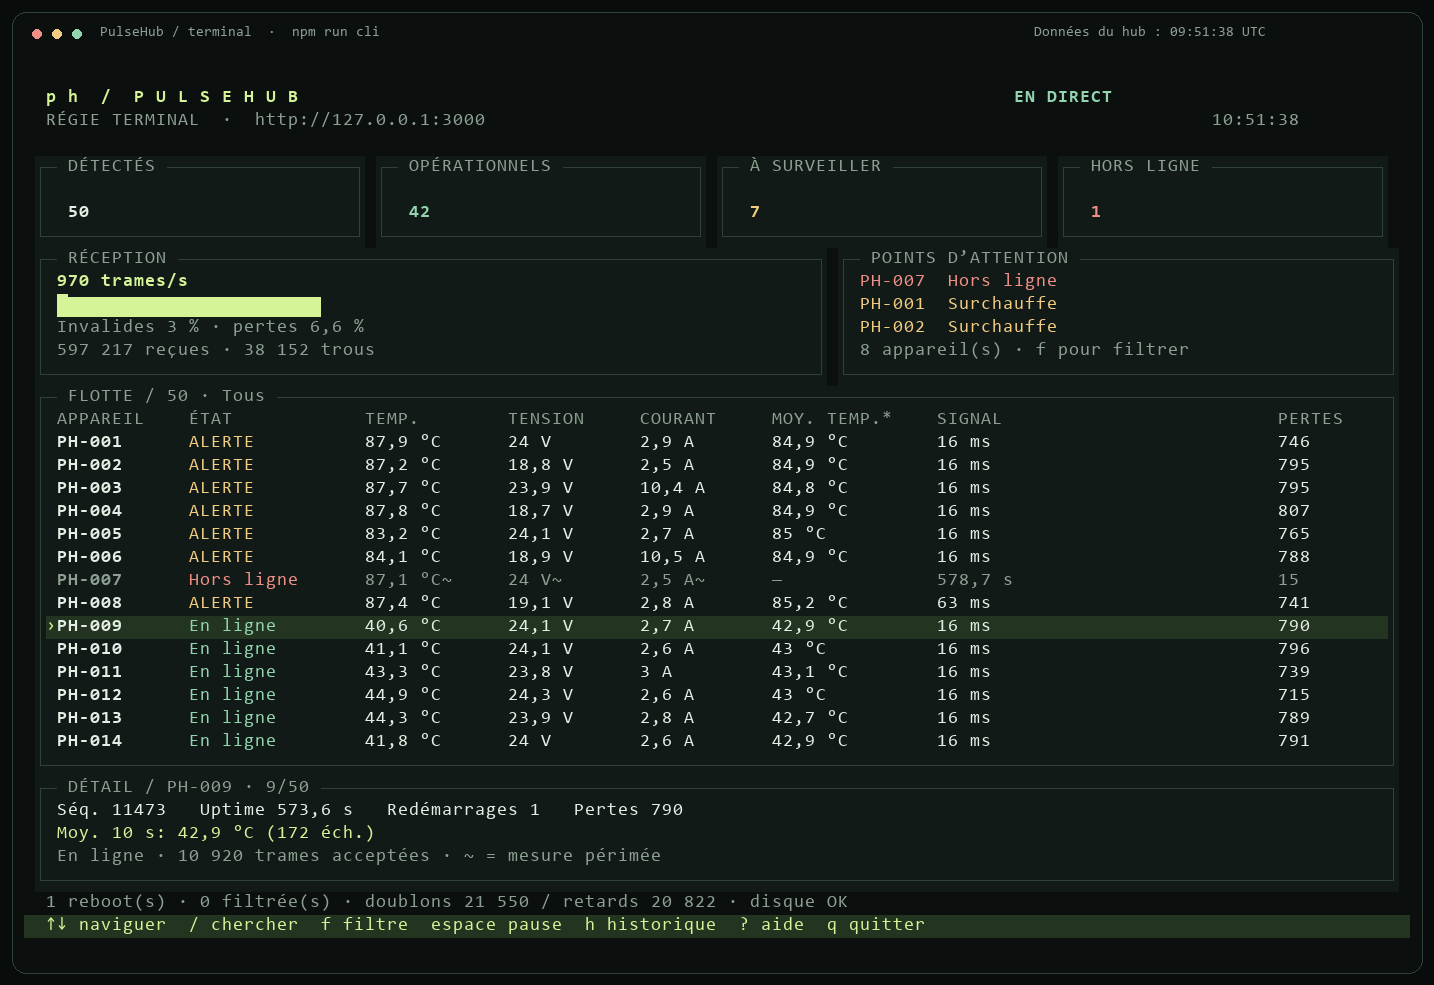
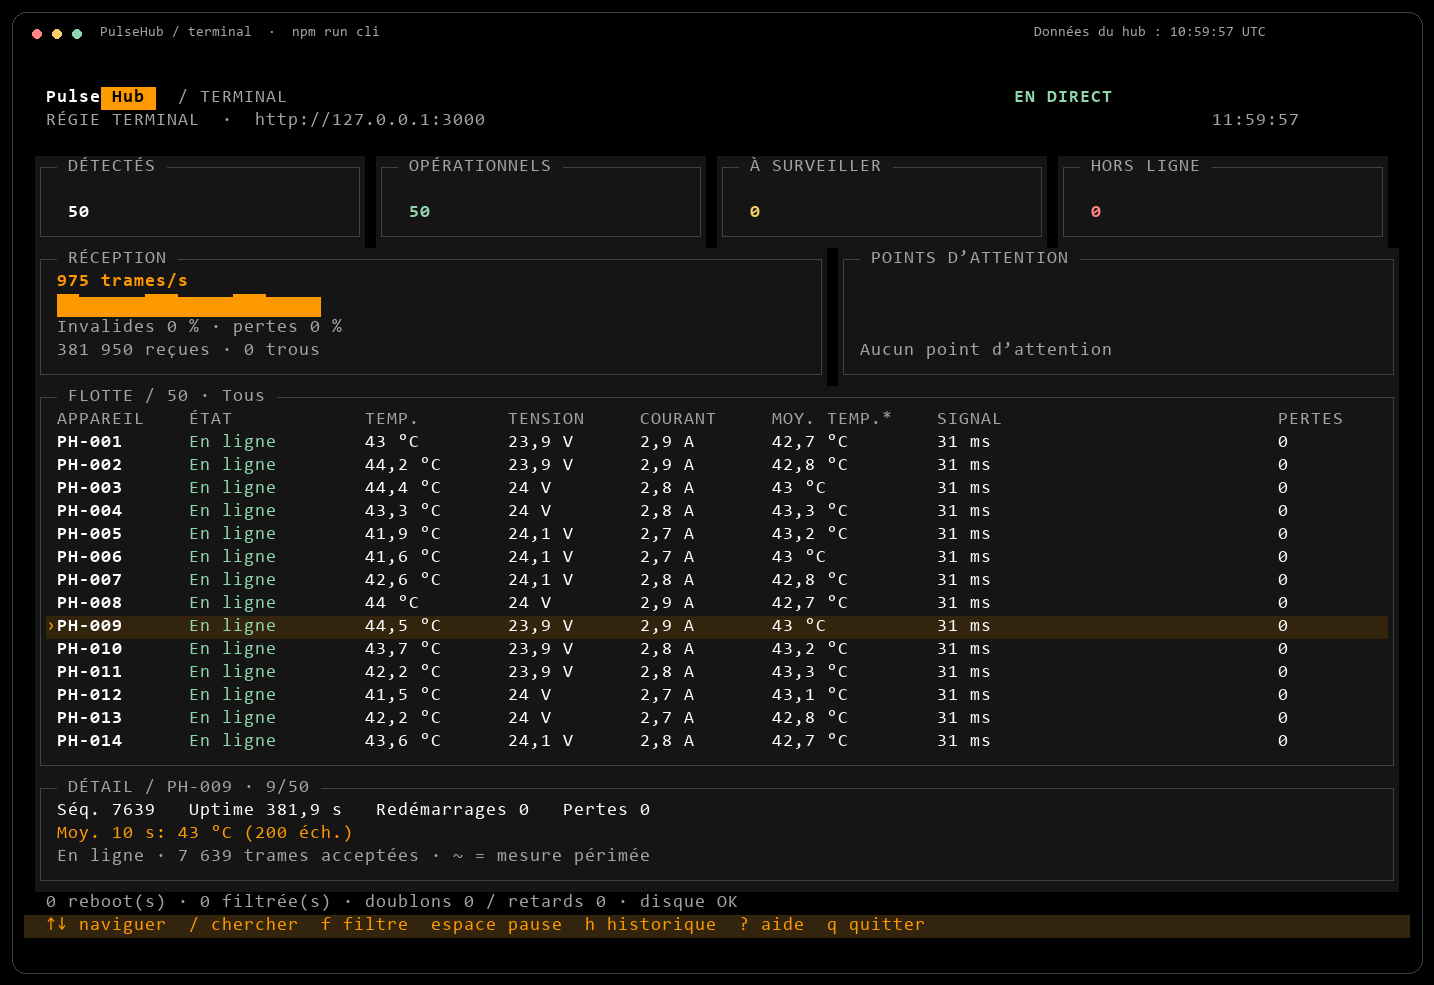
feat(cli): align terminal with black-orange web theme

diff --git a/src/terminal/dashboard.ts b/src/terminal/dashboard.ts
@@ -33,15 +33,17 @@ const metric = (id: number, value: number | null) => value === null ? '—' : nu
 const pad = (value: string, width: number) => value.slice(0, width).padEnd(width);
 export function renderDashboard(state: DashboardState, width: number, height: number): Screen {
   const screen = new Screen(width, height);
+  screen.text(2, 1, 'Pulse', 'text', true);
+  screen.fill(7, 1, 5, 1, 'accent');
+  screen.text(7, 1, ' Hub ', 'bg', true);
+  screen.text(14, 1, '/ TERMINAL', 'muted');
   if (width < 72 || height < 28) {
-    screen.text(2, 1, 'PULSEHUB / TERMINAL', 'lime', true);
     screen.text(2, 3, 'Agrandir le terminal : 73 colonnes × 29 lignes minimum.', 'amber');
     screen.text(2, 5, 'q quitter  |  --once pour un instantané texte', 'muted'); return screen;
   }
   const snapshot = displayed(state);
   const time = state.mode === 'history' ? state.history[state.historyIndex]?.at : state.mode === 'pause' ? state.frozen?.at : state.latest?.at;
   const mode = state.mode === 'history' ? `HISTORIQUE ${state.historyIndex + 1}/${state.history.length}` : state.mode === 'pause' ? 'PAUSE / DONNÉES FIGÉES' : state.connected ? 'EN DIRECT' : 'HUB DÉCONNECTÉ';
-  screen.text(2, 1, 'p h  /  P U L S E H U B', 'lime', true);
   screen.text(Math.max(29, width - 36), 1, mode, state.mode === 'live' && state.connected ? 'green' : 'amber', true);
   screen.text(2, 2, `RÉGIE TERMINAL  ·  ${state.endpoint}`, 'muted', false, width - 24);
   screen.text(width - 18, 2, time ? new Date(time).toLocaleTimeString('fr-FR') : '--:--:--', 'muted');
@@ -54,10 +56,10 @@ export function renderDashboard(state: DashboardState, width: number, height: nu
   });
   const chartWidth = Math.floor((width - 3) * 0.59);
   screen.box(1, 8, chartWidth, 6, 'RÉCEPTION');
-  screen.text(3, 9, `${number(snapshot?.ratePerSecond ?? 0)} trames/s`, 'lime', true);
+  screen.text(3, 9, `${number(snapshot?.ratePerSecond ?? 0)} trames/s`, 'accent', true);
   const rates = state.mode === 'history' ? state.history.slice(0, state.historyIndex + 1).map(e => e.snapshot.ratePerSecond) : state.rates;
   const history = rates.slice(-(chartWidth - 5)); const max = Math.max(1, ...history);
-  screen.text(3, 10, history.map(v => '▁▂▃▄▅▆▇█'[Math.min(7, Math.floor(7 * v / max))]).join(''), 'lime');
+  screen.text(3, 10, history.map(v => '▁▂▃▄▅▆▇█'[Math.min(7, Math.floor(7 * v / max))]).join(''), 'accent');
   screen.text(3, 11, `Invalides ${number(snapshot?.invalidPercent ?? 0)} % · pertes ${number(snapshot?.lossPercent ?? 0)} %`, 'muted', false, chartWidth - 4);
   screen.text(3, 12, `${number(snapshot?.counters.received ?? 0)} reçues · ${number(snapshot?.counters.lost ?? 0)} trous`, 'muted', false, chartWidth - 4);
   const alertX = chartWidth + 2; const alertWidth = width - alertX - 1;
@@ -78,7 +80,7 @@ export function renderDashboard(state: DashboardState, width: number, height: nu
   headings.forEach((h, i) => screen.text(columns[i]!, 15, h, 'muted'));
   devices.slice(first, first + capacity).forEach((d, row) => {
     const y = 16 + row; const status = statuses[d.status]!;
-    if (first + row === selected) { screen.fill(2, y, width - 4, 1, 'selected'); screen.text(2, y, '›', 'lime'); }
+    if (first + row === selected) { screen.fill(2, y, width - 4, 1, 'selected'); screen.text(2, y, '›', 'accent'); }
     const values = d.metrics.map(m => metric(m.id, m.value) + (m.stale && m.value !== null ? '~' : ''));
     const average = d.aggregates?.find(a => a.metricId === 1 && a.operation === 'mean');
     const texts = [name(d.id), status.label, ...values, ...(wide ? [average && !average.stale && d.status !== 'offline' ? metric(1, average.value) : '—', age(d.ageMs), number(d.lost)] : [age(d.ageMs)])];
@@ -90,7 +92,7 @@ export function renderDashboard(state: DashboardState, width: number, height: nu
   if (device) {
     screen.text(3, detailY + 1, `Séq. ${device.seq}   Uptime ${age(device.uptimeMs)}   Redémarrages ${device.restarts ?? 0}   Pertes ${number(device.lost)}`, 'text', false, width - 6);
     const aggregates = (device.aggregates ?? []).map(a => `${a.label}: ${a.stale || device.status === 'offline' ? '—' : metric(a.metricId, a.value)} (${a.samples} éch.)`);
-    screen.text(3, detailY + 2, aggregates.join('  ·  ') || 'Aucune agrégation configurée.', 'lime', false, width - 6);
+    screen.text(3, detailY + 2, aggregates.join('  ·  ') || 'Aucune agrégation configurée.', 'accent', false, width - 6);
     screen.text(3, detailY + 3, device.alerts.map(a => `${a.label} ${a.active ? 'ACTIVE' : 'en observation'}`).join(' · ') || `${statuses[device.status]!.label} · ${number(device.accepted)} trames acceptées · ~ = mesure périmée`, 'muted', false, width - 6);
   }
   const service = state.latest?.service;
@@ -99,7 +101,7 @@ export function renderDashboard(state: DashboardState, width: number, height: nu
   screen.text(2, height - 3, footer, state.connected ? 'muted' : 'red', false, width - 4);
   screen.fill(0, height - 2, width, 1, 'selected');
   const shortcuts = width >= 100 ? '↑↓ naviguer  / chercher  f filtre  espace pause  h historique  ? aide  q quitter' : '↑↓ choix  / chercher  f filtre  espace pause  h hist.  ? aide  q';
-  screen.text(2, height - 2, state.editing ? `RECHERCHE /${state.query}█   Entrée valider · Échap annuler` : shortcuts, 'lime', false, width - 4);
+  screen.text(2, height - 2, state.editing ? `RECHERCHE /${state.query}█   Entrée valider · Échap annuler` : shortcuts, 'accent', false, width - 4);
   if (state.help) {
     const w = Math.min(76, width - 4); const x = Math.floor((width - w) / 2); const y = 6;
     screen.box(x, y, w, 17, 'RACCOURCIS');

diff --git a/src/terminal/screen.ts b/src/terminal/screen.ts
@@ -1,8 +1,8 @@
 /** Fixed-cell rendering shared by the ANSI terminal and the inspectable preview. */
 export const palette = {
-  bg: '#0b100e', panel: '#111a16', selected: '#233420', border: '#304237',
-  text: '#e4eee5', muted: '#8d9f92', lime: '#d5f397', green: '#92d5af',
-  amber: '#f2cc81', red: '#f08f88', blue: '#9ccbdc',
+  bg: '#000000', panel: '#151515', selected: '#33240e', border: '#414141',
+  text: '#ffffff', muted: '#a3a3a3', accent: '#ff9900', green: '#8fd6ad',
+  amber: '#f6cf65', red: '#ff8585', blue: '#a8b5c8',
 };
 export type Tone = keyof typeof palette;
 export interface Cell { char: string; fg: Tone; bg: Tone; bold: boolean }

diff --git a/README.md b/README.md
@@ -86,6 +86,8 @@ Les composants partagés sont dans `public/ui.js` et `public/ui.css`, servis par
 
 Avec le hub déjà lancé, ouvrir un terminal supplémentaire et lancer **`npm run cli`**. Le CLI reprend la flotte, le débit, les alertes et les agrégations du même serveur, avec navigation au clavier, recherche, filtres, pause et historique.
 
+Il reprend aussi le thème noir, orange `#ff9900` et blanc du site, avec « Hub » sur fond orange. Le graphe, le curseur de sélection et les raccourcis sont orange ; les couleurs des états restent distinctes. Si le CLI tournait avant la mise à jour, quitter avec `q` puis relancer la commande pour charger les nouvelles couleurs.
+
 ```sh
 npm run cli
 ```
@@ -353,7 +355,7 @@ Bonus implémentés : chaîne de traitement JSON extensible, alertes avec durée
 
 Le dépôt a été créé spécifiquement pour ce projet. L’historique contient des commits de progression réels : protocole, métier, application, validation et documentation. Aucun historique antidaté, aucun autre projet repris. `.gitignore` exclut dépendances, compilation, données de test et secrets. Le tag annoté `v1.0` identifie le rendu ; les workflows s’appliquent également au push de ce tag.
 
-Le tag `v1.0` a été actualisé avant remise pour inclure l’interface terminal, les guides illustrés, la démo interactive et les composants web personnalisés. Les versions précédentes restent consultables sous `v1.0-initial` (première version), `v1.0-before-cli` (avant le dashboard terminal), `v1.0-before-interactive` (avant les commandes de démo) et `v1.0-before-custom-ui` (avant le thème noir/orange et les menus personnalisés). Le correcteur doit utiliser **`v1.0`**.
+Le tag `v1.0` a été actualisé avant remise pour inclure l’interface terminal, les guides illustrés, la démo interactive, les composants web personnalisés et le thème noir/orange commun au web et au CLI. Les versions précédentes restent consultables sous `v1.0-initial` (première version), `v1.0-before-cli` (avant le dashboard terminal), `v1.0-before-interactive` (avant les commandes de démo), `v1.0-before-custom-ui` (avant le thème et les menus web) et `v1.0-before-cli-theme` (avant l’harmonisation des couleurs du terminal). Le correcteur doit utiliser **`v1.0`**.
 
 ```sh
 git log --oneline --decorate

diff --git a/docs/terminal.md b/docs/terminal.md
@@ -16,6 +16,8 @@ npm run cli
 
 L’image est une exportation du moteur de rendu avec les données de la démo locale au moment de la capture. L’application interactive s’actualise en continu.
 
+Le CLI partage la palette du site : fond noir `#000000`, texte blanc et accents orange `#ff9900`. « Hub » apparaît en noir sur un bloc orange ; graphe, sélection et raccourcis reprennent cet accent. Les états conservent leurs libellés et leurs couleurs dédiées : vert pour opérationnel, jaune pour observation/alerte, rouge pour hors ligne. Après une mise à jour du code, quitter le CLI avec `q` puis relancer `npm run cli` pour charger le thème.
+
 Utiliser Windows Terminal, PowerShell ou un terminal compatible ANSI. Préférer **130 colonnes × 42 lignes** avec une police monospace comme Cascadia Mono. Le minimum est de 73 colonnes × 29 lignes ; sous 111 colonnes, la table devient compacte, avec les pertes et agrégats dans le détail de l’appareil sélectionné. Les couleurs sont désactivées avec `NO_COLOR` ou `--no-color`.
 
 ## Navigation
